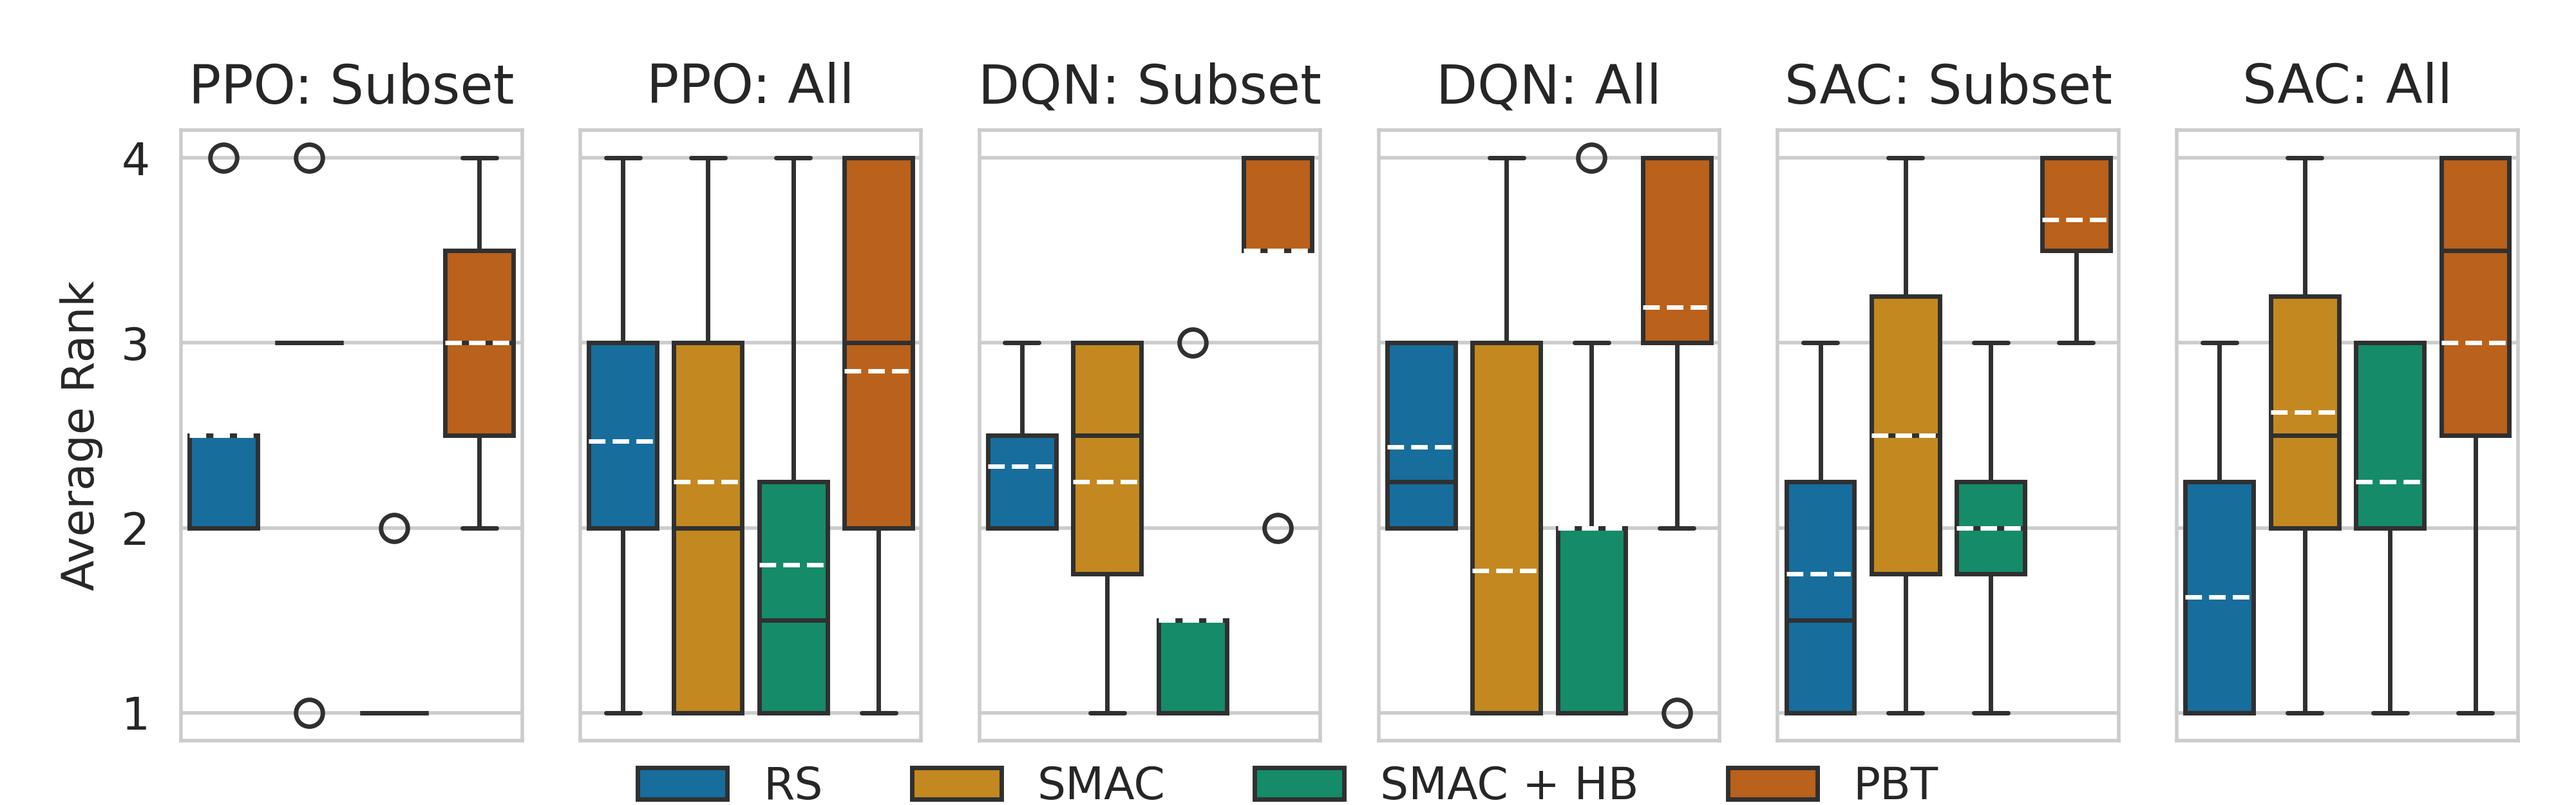
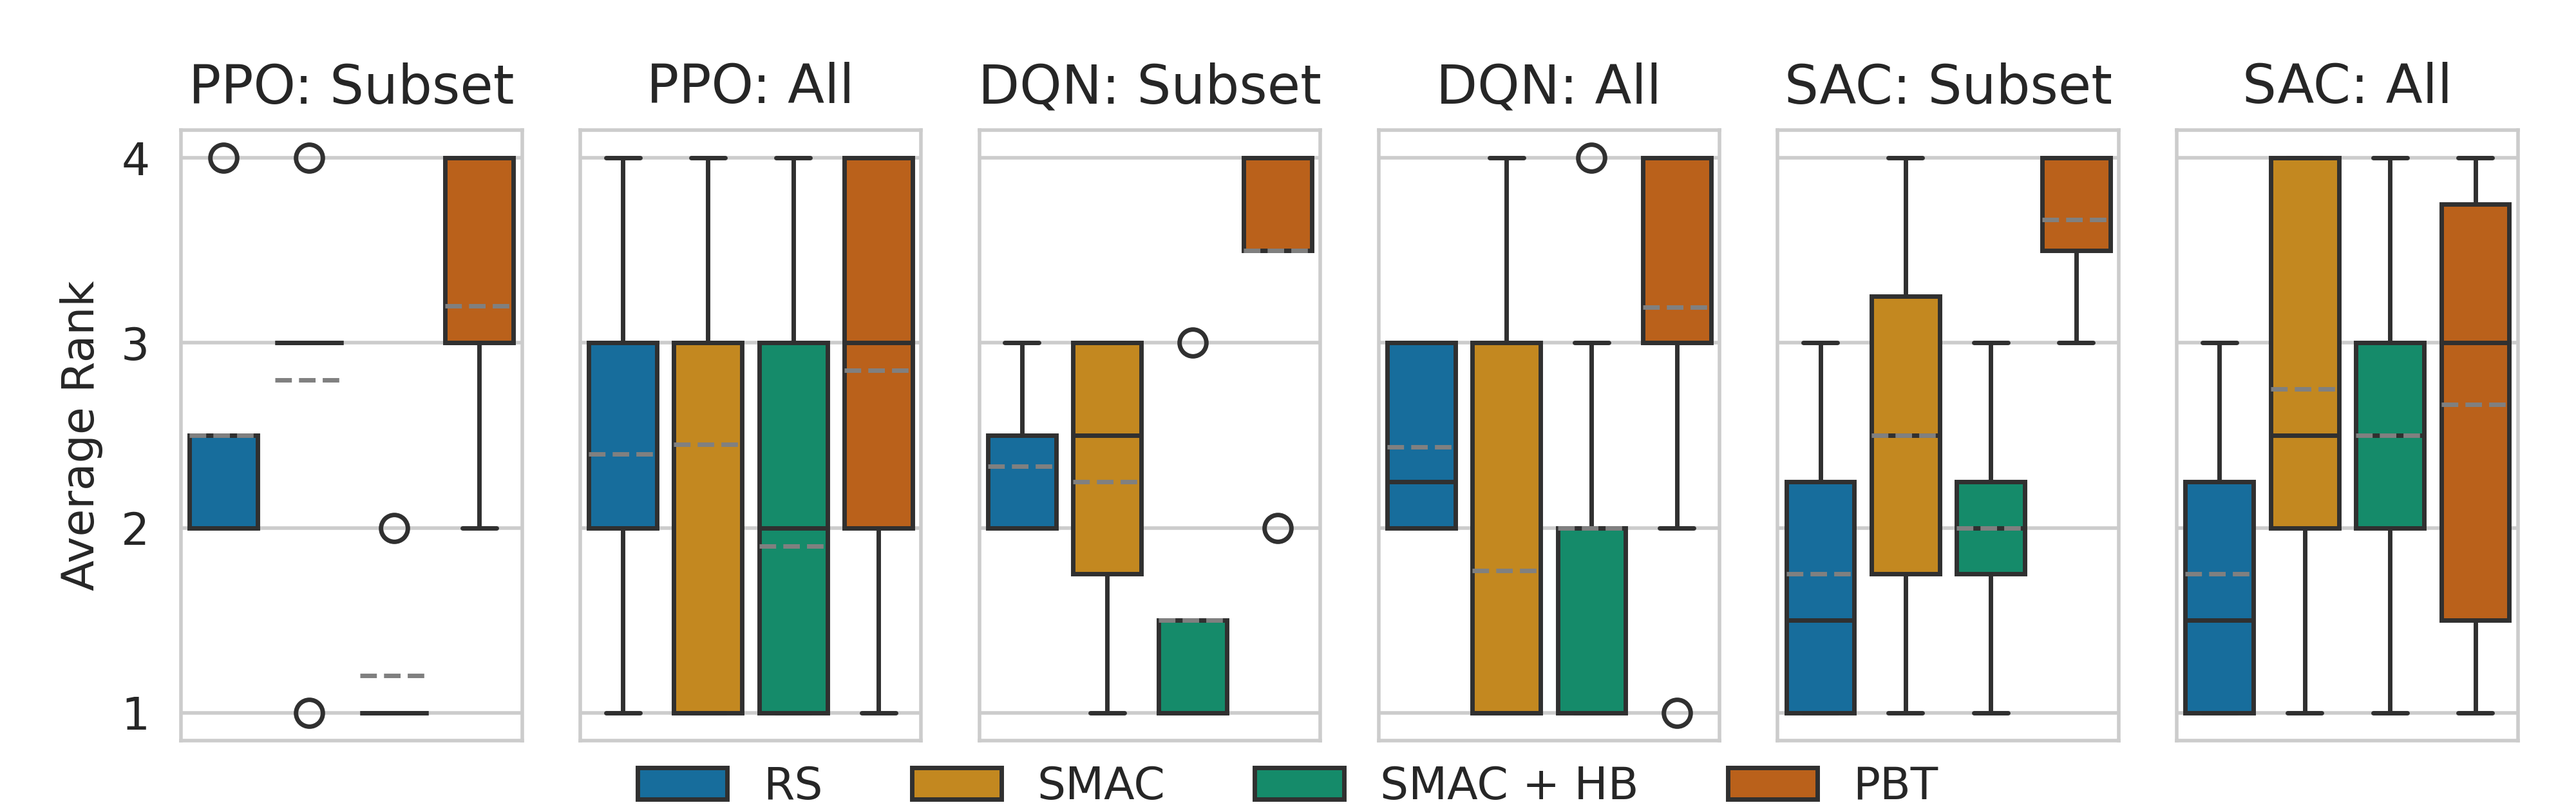
updated subset plots

diff --git a/runscripts/plot_runtime_comparisons.py b/runscripts/plot_runtime_comparisons.py
@@ -116,34 +116,6 @@ def read_arlbench_runtimes(approach: str) -> pd.DataFrame:
     return pd.DataFrame(runtime_data)
 
 
-def fetch_cleanrl_runtimes(algorithms, environments):
-    import wandb
-    api = wandb.Api()
-
-    data = []
-
-    runs = api.runs(path="openrlbenchmark/cleanrl")
-    for run in runs:
-        algorithm = run.config["exp_name"]
-        if not ("ppo" in algorithm or "dqn" in algorithm or "sac" in algorithm):
-            continue
-
-        environment = run.config["env_id"]
-        summary = run.summary
-
-        if not "_runtime" in summary:
-            continue
-
-        data += [{
-            "algorithm": algorithm,
-            "environment": environment,
-            "seed": run.config["seed"],
-            "runtime": summary["_runtime"]
-        }]
-
-    return pd.DataFrame(data)
-
-
 def plot_runtime_comparisons():
     runtime_results = []
 
@@ -267,26 +239,7 @@ def plot_runtime_comparisons():
 
 
 if __name__ == "__main__":
-    # ALGORITHMS = [
-    #     "dqn_atari",
-    #     "dqn_atari_jax",
-    #     "dqn_jax",
-    #     "ppo",
-    #     "ppo_atari",
-    #     "ppo_atari_envpool",
-    #     "ppo_atari_envpool_xla_jax",
-    #     "ppo_atari_envpool_xla_jax_scan",
-    #     "ppo_continuous_action",
-    #     "ppo_continuous_action_envpool_xla_jax_scan",
-    #     "sac_continuous_action",
-    #     "sac_continuous_action_jax",
-    #     "sac_jax"
-    # ] 
-    # #approach = "rs"
-    # #data = read_arlbench_runtimes(approach)
-    # #data.to_csv(os.path.join(RESULTS_COMBINED_DIR, approach, "runtimes.csv"))
-    # # data = pd.read_csv(os.path.join(RESULTS_COMBINED_DIR, approach, "runtimes.csv"))
-    # data = fetch_cleanrl_runtimes([], ["CartPole-v1"])
-    # print(np.unique(data["algorithm"]))
-
-    plot_runtime_comparisons()
+    # plot_runtime_comparisons()
+    approach = "rs"
+    data = read_arlbench_runtimes(approach)
+    print(data)

diff --git a/subset_validation/subset_validation.py b/subset_validation/subset_validation.py
@@ -203,7 +203,7 @@ def read_optimizer_data_per_algorithm():
 def validate(algorithm: str, method: str = "rank"):
     min_scores, max_scores = read_min_max_scores()
     optimizer_data = read_optimizer_data_per_algorithm()
-    overall_data = optimizer_data[algorithm]
+    overall_data = optimizer_data[algorithm].copy()
     subset = SUBSETS[algorithm]
 
     # Rename columns
@@ -259,6 +259,7 @@ def plot_subset_vs_overall_combined(method: str):
     
     for i, algorithm in enumerate(["ppo", "dqn", "sac"]):
         overall_data, subset_data = validate(algorithm, method) 
+        print(subset_data)
 
         sns.boxplot(
             x="optimizer", 
@@ -269,7 +270,7 @@ def plot_subset_vs_overall_combined(method: str):
             meanline=True, 
             hue_order=hue_order, 
             legend="full" if i == 0 else None,
-            meanprops={"color":"white"},
+            meanprops={"color":"gray"},
             order=hue_order
         )
 
@@ -284,7 +285,7 @@ def plot_subset_vs_overall_combined(method: str):
             showmeans=True, 
             meanline=True, 
             hue_order=hue_order,
-            meanprops={"color":"white"},
+            meanprops={"color":"gray"},
             order=hue_order
         )
         axes[2 * i + 1].set_title(f"{algorithm.upper()}: All")
